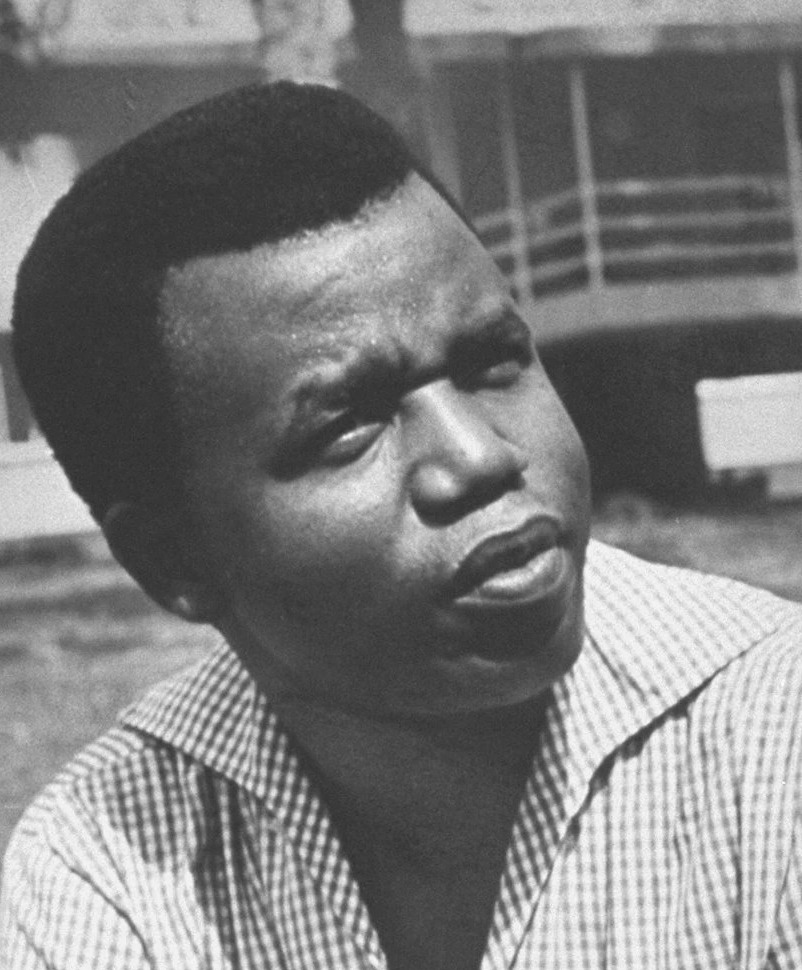
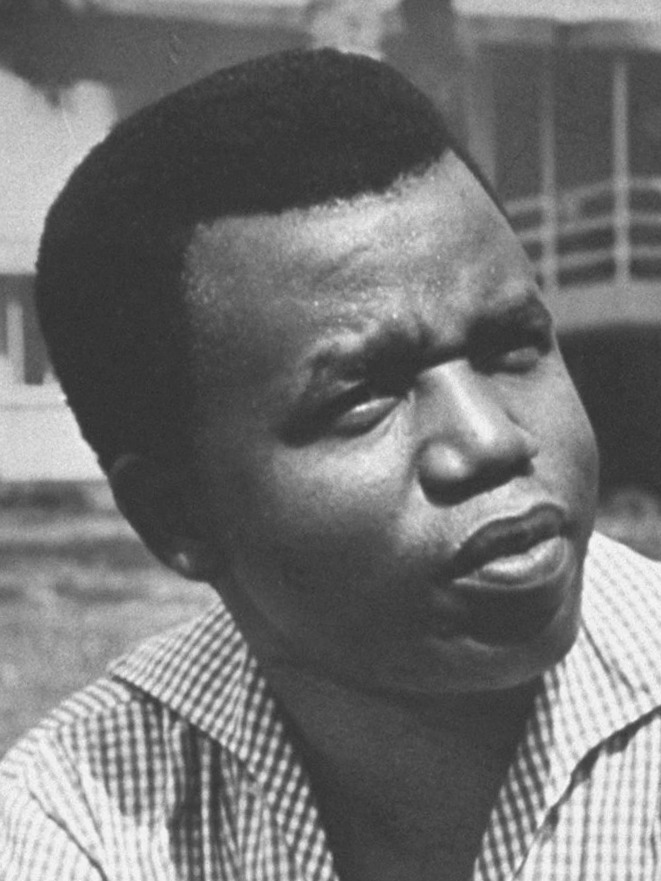
Swap in Tim's preferred Achebe portrait crop; fix mobile feature-card aspect ratio
Use the user-supplied crop for t4-chinua-achebe.jpg. Also widen the
feature card's mobile portrait box from 16:9 to 4:5 — the wide-short
box was clipping the chin on headshot crops regardless of
object-position, since there wasn't enough vertical room to show
hairline through chin in a single view.

diff --git a/src/styles/tfa-figures.css b/src/styles/tfa-figures.css
@@ -465,7 +465,7 @@
 @media (max-width: 860px) {
   .fig-card--feature,
   .fig-card--inst { grid-template-columns: 1fr; }
-  .fig-card--feature .fig-card-portrait { aspect-ratio: 16 / 9; min-height: 0; }
+  .fig-card--feature .fig-card-portrait { aspect-ratio: 4 / 5; min-height: 0; }
   .fig-card--feature .fig-card-body,
   .fig-card--inst  .fig-card-body { padding: var(--s-6) var(--s-6) var(--s-8); }
   .fig-card--inst .fig-card-plate {
